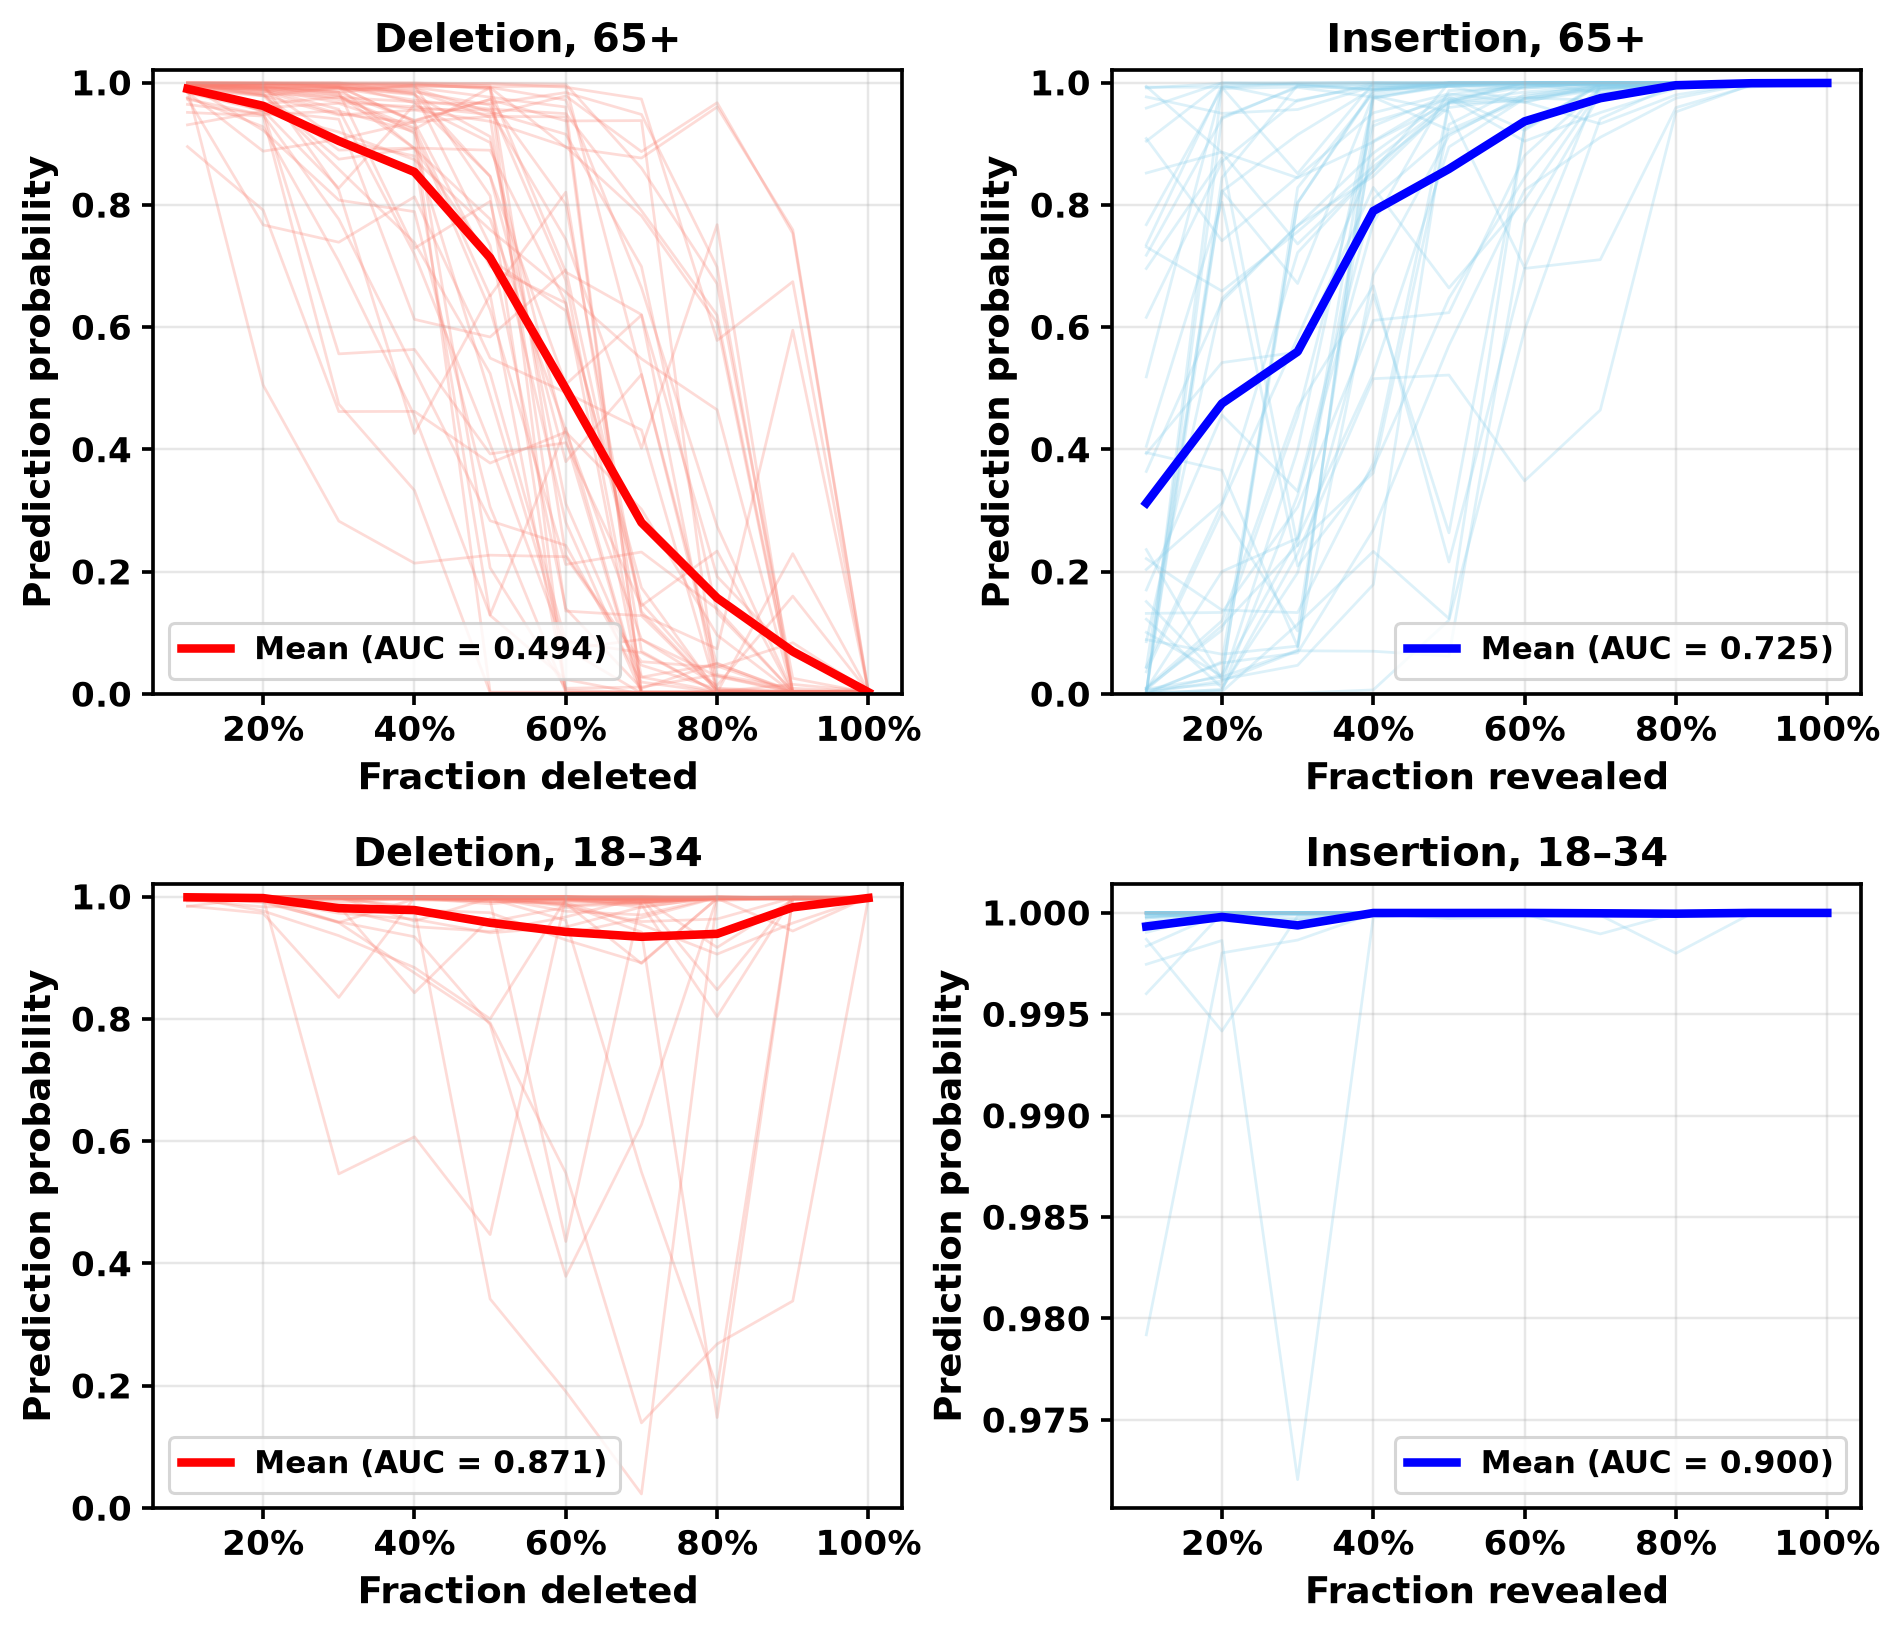
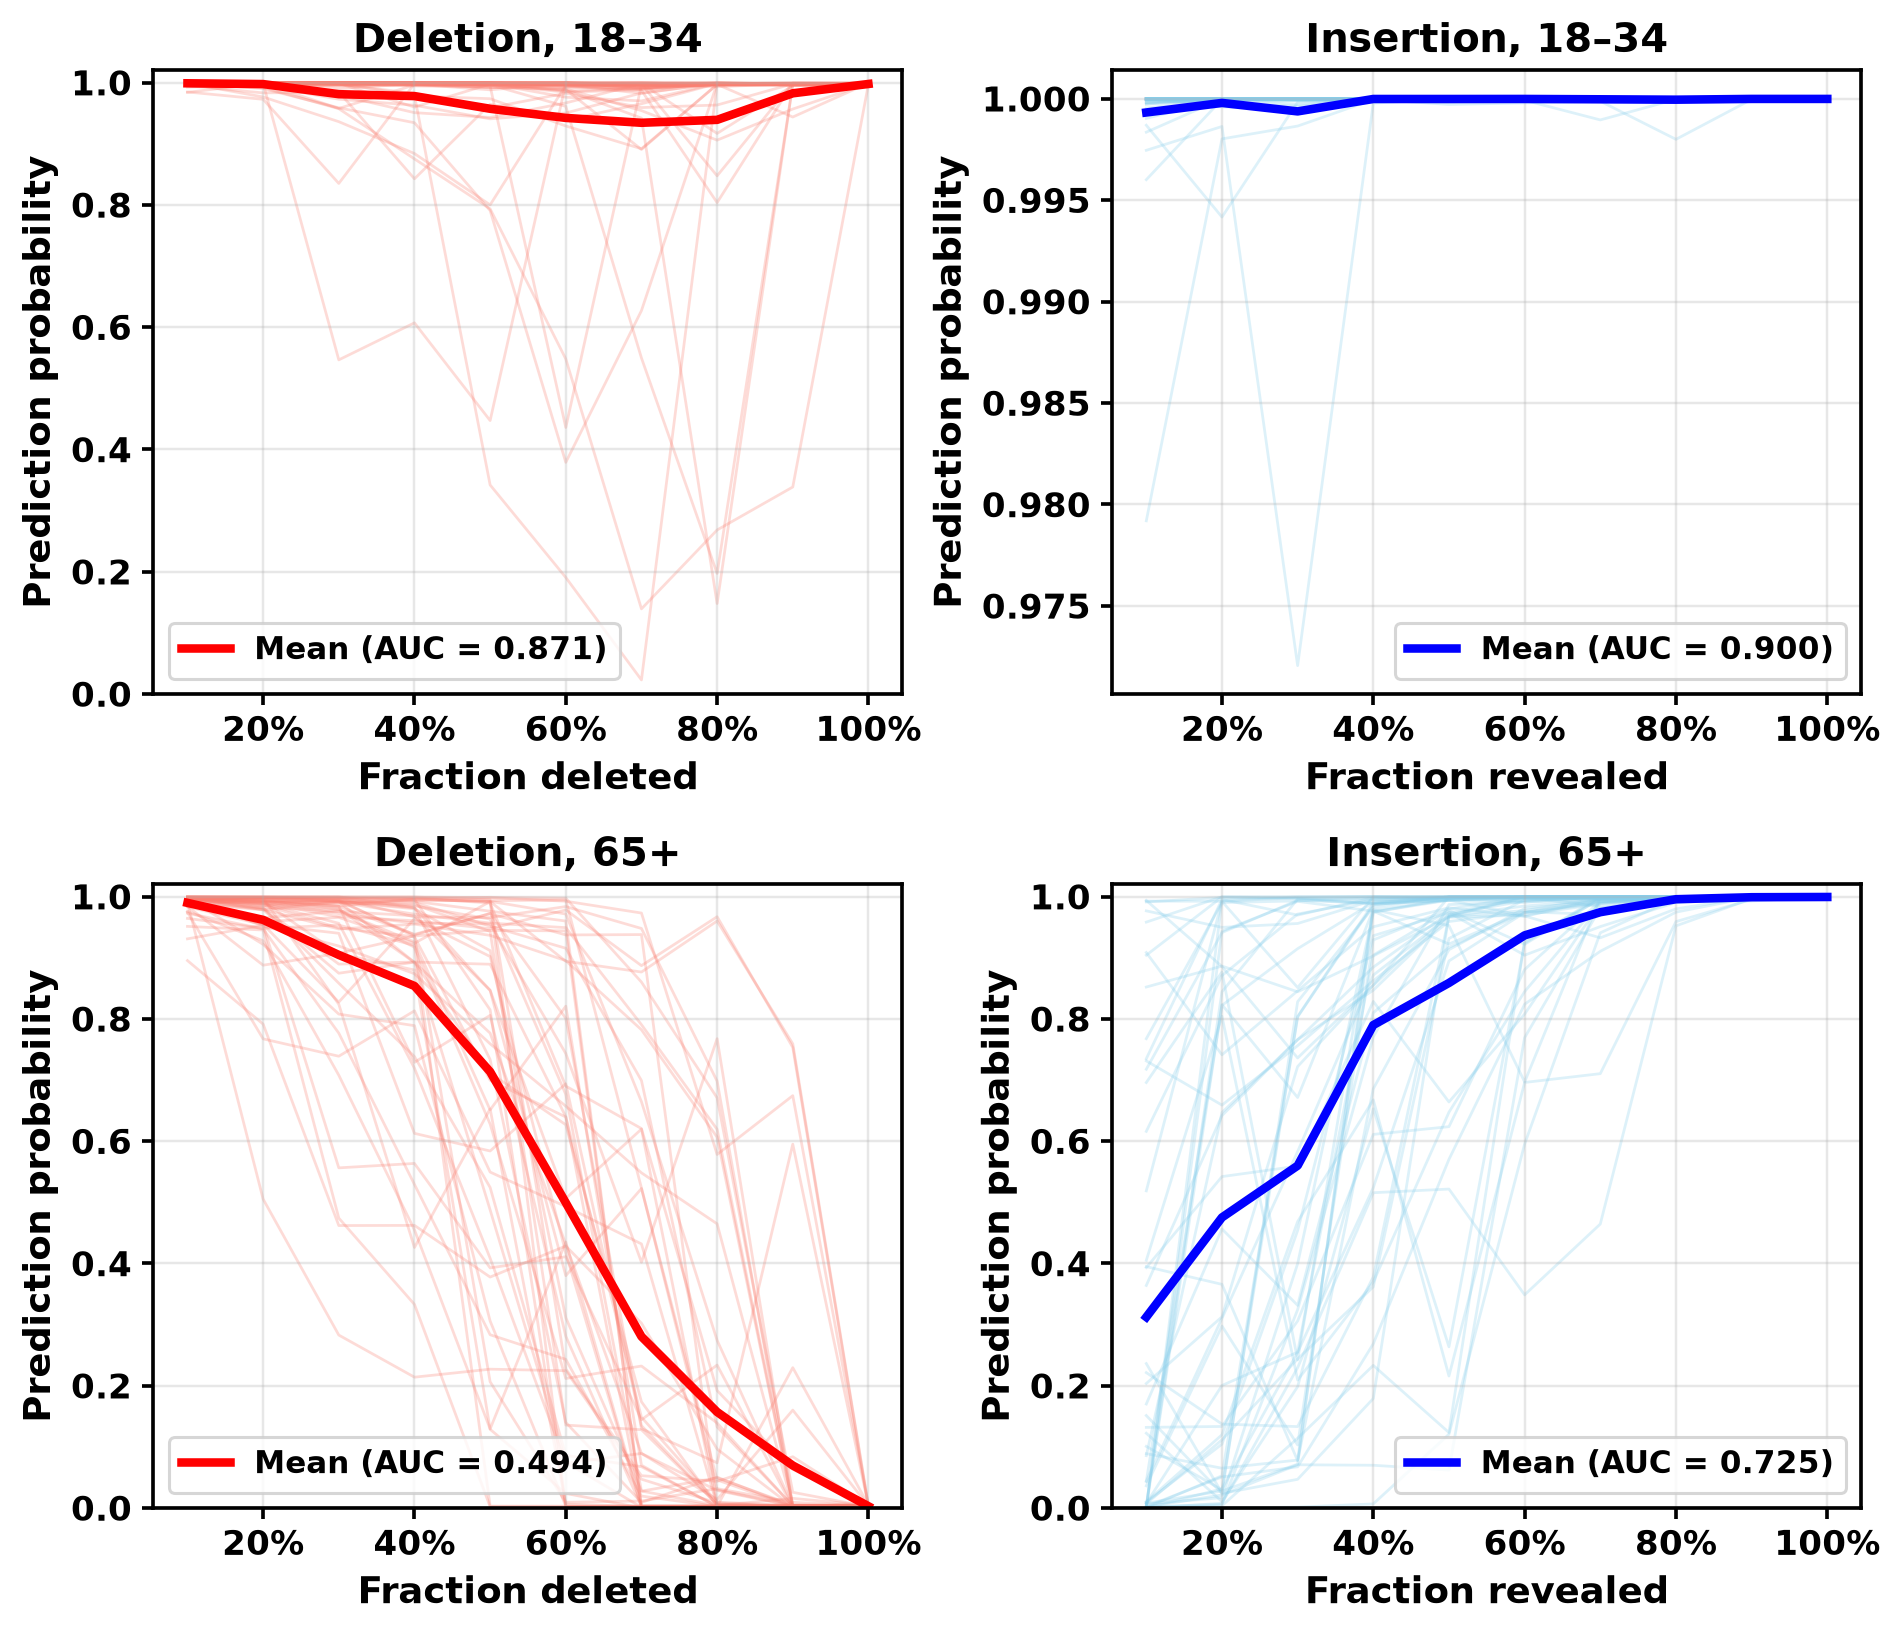
Put 18-34 on the top row of the Grad-CAM deletion/insertion figure.

diff --git a/8_ALL_categories_gradcam/redraw_delins_figures.py b/8_ALL_categories_gradcam/redraw_delins_figures.py
@@ -160,10 +160,10 @@ def save_pair(path, thrs, all_del, all_ins, group_label):
 def save_column(path, thrs, data):
     fig, axes = plt.subplots(4, 1, figsize=(4.4, 12.4))
     specs = [
-        (data["del_65"], "salmon", "red", "Deletion, 65+", "Fraction deleted", (0, 1.02)),
-        (data["ins_65"], "skyblue", "blue", "Insertion, 65+", "Fraction revealed", (0, 1.02)),
         (data["del_34"], "salmon", "red", "Deletion, 18–34", "Fraction deleted", (0, 1.02)),
         (data["ins_34"], "skyblue", "blue", "Insertion, 18–34", "Fraction revealed", None),
+        (data["del_65"], "salmon", "red", "Deletion, 65+", "Fraction deleted", (0, 1.02)),
+        (data["ins_65"], "skyblue", "blue", "Insertion, 65+", "Fraction revealed", (0, 1.02)),
     ]
     for ax, (curves, c1, c2, title, xlabel, ylim) in zip(axes, specs):
         draw_panel(ax, thrs, curves, c1, c2, title, xlabel, ylim=ylim)
@@ -176,10 +176,10 @@ def save_column(path, thrs, data):
 def save_grid(path, thrs, data):
     fig, axes = plt.subplots(2, 2, figsize=(8.6, 7.4))
     specs = [
-        (axes[0, 0], data["del_65"], "salmon", "red", "Deletion, 65+", "Fraction deleted", (0, 1.02)),
-        (axes[0, 1], data["ins_65"], "skyblue", "blue", "Insertion, 65+", "Fraction revealed", (0, 1.02)),
-        (axes[1, 0], data["del_34"], "salmon", "red", "Deletion, 18–34", "Fraction deleted", (0, 1.02)),
-        (axes[1, 1], data["ins_34"], "skyblue", "blue", "Insertion, 18–34", "Fraction revealed", None),
+        (axes[0, 0], data["del_34"], "salmon", "red", "Deletion, 18–34", "Fraction deleted", (0, 1.02)),
+        (axes[0, 1], data["ins_34"], "skyblue", "blue", "Insertion, 18–34", "Fraction revealed", None),
+        (axes[1, 0], data["del_65"], "salmon", "red", "Deletion, 65+", "Fraction deleted", (0, 1.02)),
+        (axes[1, 1], data["ins_65"], "skyblue", "blue", "Insertion, 65+", "Fraction revealed", (0, 1.02)),
     ]
     for ax, curves, c1, c2, title, xlabel, ylim in specs:
         draw_panel(ax, thrs, curves, c1, c2, title, xlabel, ylim=ylim)

diff --git a/paper/section_2.2_gradcam_en.md b/paper/section_2.2_gradcam_en.md
@@ -60,11 +60,11 @@ Table B2. Grad-CAM energy by exclusive ROI (top-50 correct; predicted-class heat
 | 18–34 | background | 74.5% | 72.4% | 0.98 | 74.5% |
 
 \paragraph{Faithfulness.}
-Deletion removes pixels in order of Grad-CAM importance and records the drop in predicted probability for the target class. Insertion starts from a blurred image and restores the same pixels in the same order. For the 65+ top-50 correct sample, deletion AUC was .494 and insertion AUC was .725. For the 18–34 top-50 correct sample, deletion AUC was .871 and insertion AUC was .900: predicted probability stayed high even after important regions were removed, which is consistent with evidence spread across the image.
+Deletion removes pixels in order of Grad-CAM importance and records the drop in predicted probability for the target class. Insertion starts from a blurred image and restores the same pixels in the same order. For the 18–34 top-50 correct sample, deletion AUC was .871 and insertion AUC was .900 (Figure B1, top): predicted probability stayed high even after important regions were removed, which is consistent with evidence spread across the image. For the 65+ top-50 correct sample, deletion AUC was .494 and insertion AUC was .725 (Figure B1, bottom).
 
 [Figure B1 here]
 
-Figure B1. Deletion and insertion curves for the top-50 correct samples (left: 65+; right: 18–34).
+Figure B1. Deletion and insertion curves for the top-50 correct samples (top: 18–34; bottom: 65+).
 
 Table B3 repeats the deletion and insertion tests one ROI at a time, using the original overlapping OCR and YOLO boxes (text + person + background can exceed 100%). Deletion masks the ROI and insertion shows only the ROI. delN = (baseline probability - deletion probability) / area; insN = insertion probability / area.
 
